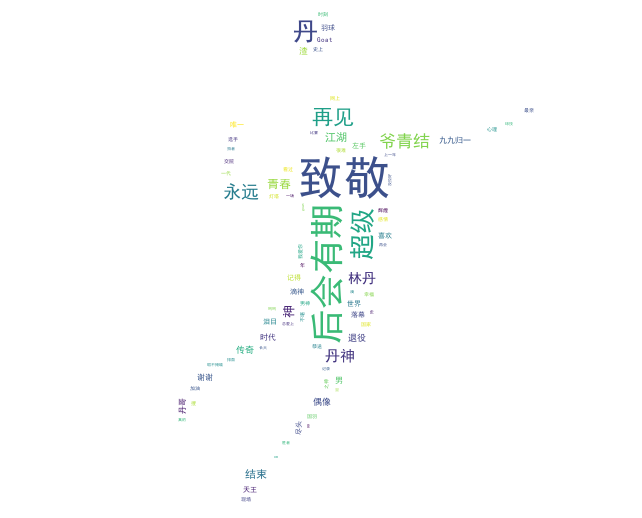
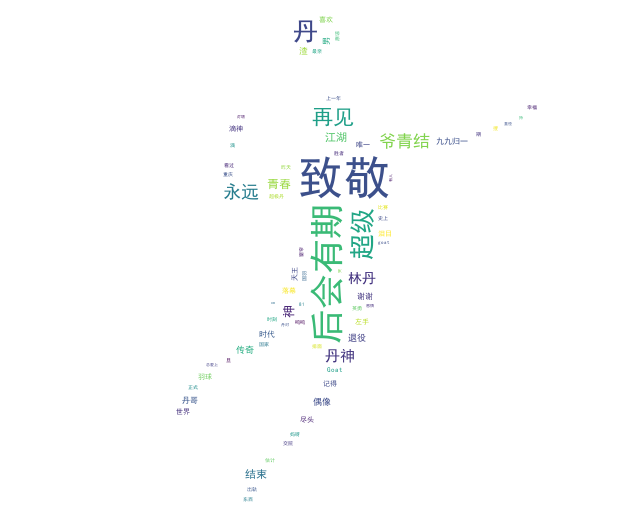
magic

diff --git a/ai/magic/comic/demo2.py b/ai/magic/comic/demo2.py
@@ -1,0 +1,52 @@
+"""
+人像动漫化，并为人像戴口罩
+"""
+
+import requests, base64
+from PIL import Image
+
+
+# 这个函数的操作是为了获取access_token参数
+def get_access_token():
+
+    data = {
+        'grant_type': 'client_credentials',  # 固定值
+        'client_id': 'giFiN1wphxIY8lIosxMD0DMd',  # 在开放平台注册后所建应用的API Key
+        'client_secret': 'M1yNChTkokPqqsaw4mmqajtn9QOS1u5o'  # 所建应用的Secret Key
+    }
+    url = 'https://aip.baidubce.com/oauth/2.0/token'
+    res = requests.post(url, data=data)
+    res = res.json()
+    # print(res)
+
+    access_token = res['access_token']
+    return access_token
+
+
+def create_magic():
+    request_url = "https://aip.baidubce.com/rest/2.0/image-process/v1/selfie_anime"
+    # 二进制方式打开图片文件
+    f = open('girl2.jpg', 'rb')
+    img = base64.b64encode(f.read())
+    # 注意：这里就是多了type参数和mask_id参数，都是在源文档中可以查看的参数。
+    # type的值为anime或者anime_mask。前者生成二次元动漫图，后者生成戴口罩的二次元动漫人像。
+    # 1～8之间的整数，用于指定所使用的口罩的编码。大家可以自行下去尝试。
+    params = {"image": img, "type": 'anime_mask', "mask_id": "2"}
+    access_token = '24.11731cd1f0...9f9b3a930f917f3681b.2592000.1596894747.282335-21221990'
+    request_url = request_url + "?access_token=" + get_access_token()
+    headers = {'content-type': 'application/x-www-form-urlencoded'}
+    response = requests.post(request_url, data=params, headers=headers)
+    res = response.json()
+    # print(res)
+    if res:
+        f = open("lu2.jpg", 'wb')
+        after_img = res['image']
+        after_img = base64.b64decode(after_img)
+        f.write(after_img)
+        f.close()
+        im = Image.open('lu2.jpg')
+        im.show()
+
+
+if __name__ == '__main__':
+    create_magic()

diff --git a/ai/magic/comic/demo1.py b/ai/magic/comic/demo1.py
@@ -1,0 +1,54 @@
+"""
+单纯的人像动漫化，不为人像戴口罩
+"""
+
+import requests, base64
+import matplotlib.pyplot as plt  # plt 用于显示图片
+import matplotlib.image as mpimg  # mpimg 用于读取图片
+from PIL import Image
+
+
+# 这个函数的操作是为了获取access_token参数
+def get_access_token():
+
+    data = {
+        'grant_type': 'client_credentials',  # 固定值
+        'client_id': 'giFiN1wphxIY8lIosxMD0DMd',  # 在开放平台注册后所建应用的API Key
+        'client_secret': 'M1yNChTkokPqqsaw4mmqajtn9QOS1u5o'  # 所建应用的Secret Key
+    }
+    url = 'https://aip.baidubce.com/oauth/2.0/token'
+    res = requests.post(url, data=data)
+    res = res.json()
+    # print(res)
+
+    access_token = res['access_token']
+    return access_token
+
+
+def create_comic():
+
+    request_url = "https://aip.baidubce.com/rest/2.0/image-process/v1/selfie_anime"
+    f = open('girl2.jpg', 'rb')  # 二进制方式打开图片文件
+    img = base64.b64encode(f.read())  # 图像转为base64的格式
+
+    params = {"image": img}
+    request_url = request_url + "?access_token=" + get_access_token()
+    headers = {'content-type': 'application/x-www-form-urlencoded'}
+    response = requests.post(request_url, data=params, headers=headers)
+    res = response.json()
+
+    # 前面我们讲述了这个请求返回的是一个字典，其中一个键就是image，代表的是处理后的图像信息
+    # 将这个图像信息写入，得到最终的效果图
+    if res:
+        f = open("lu.jpg", 'wb')
+        after_img = res['image']
+        after_img = base64.b64decode(after_img)
+        f.write(after_img)
+        f.close()
+
+        im = Image.open('lu.jpg')
+        im.show()
+
+
+if __name__ == '__main__':
+    create_comic()

diff --git a/ai/magic/matting.py b/ai/magic/matting.py
@@ -1,0 +1,27 @@
+"""
+64 位操作系统  Python 和 pip 是 64 bit   "x86_64"、"x64" 或 "AMD64"内核
+python -c "import platform;print(platform.architecture()[0]);print(platform.machine())"
+"""
+
+# coding=utf-8
+#import matplotlib.pyplot as plt
+#import matplotlib.image as mpimg
+
+import os
+import paddlehub as hub
+
+# 加载模型
+huseg = hub.Module(name='deeplabv3p_xception65_humanseg')
+base_dir = os.path.abspath(os.path.dirname(__file__))
+
+# 获取当前文件目录
+path = os.path.join(base_dir, 'images/')
+
+# 获取文件列表
+files = [path + i for i in os.listdir(path)]
+print(files)
+
+# 抠图
+results = huseg.segmentation(data={'image': files})
+for result in results:
+    print(result)

diff --git a/wordcloud/super-dan/god.py b/wordcloud/super-dan/god.py
@@ -32,7 +32,7 @@ word_count = pd.Series(all_words).value_counts()
 
 # 6 词云图的绘制
 # 6-1）读取背景图片
-back_picture = imread(r"god_bg.png")
+back_picture = imread(r"heart_bg.jpg")
 
 # 6-2）设置词云参数
 wc = WordCloud(font_path="simhei.ttf",  # 设置字体
@@ -52,5 +52,5 @@ plt.figure(figsize=(16, 8))
 # plt.figure(figsize=(a, b), dpi=dpi) figsize设置图形的大小，a为图形的宽，b为图形的高，单位为英寸；dpi为设置图形每英寸的点数
 plt.imshow(wc2)
 plt.axis("off")  # 隐藏坐标
-# plt.show()
-wc.to_file("god.png")
+plt.show()
+wc.to_file("heart2.png")
